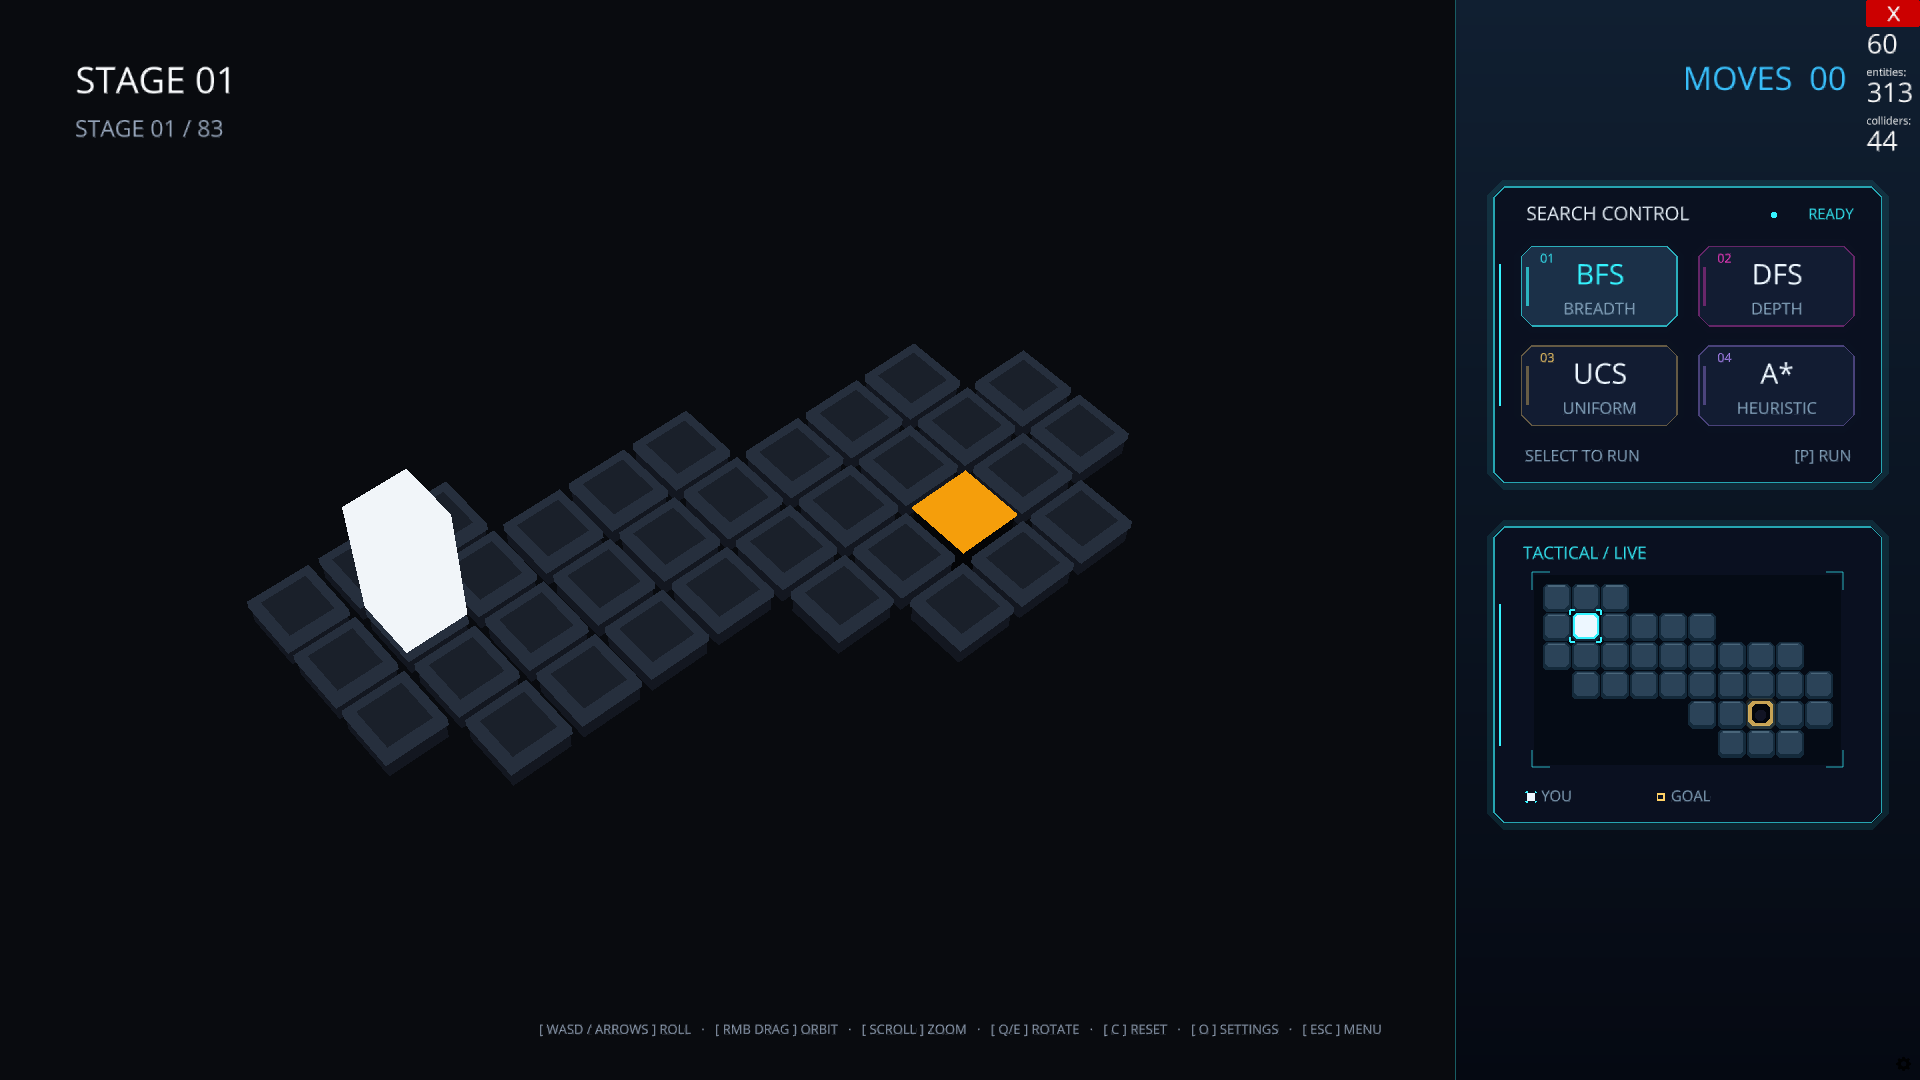
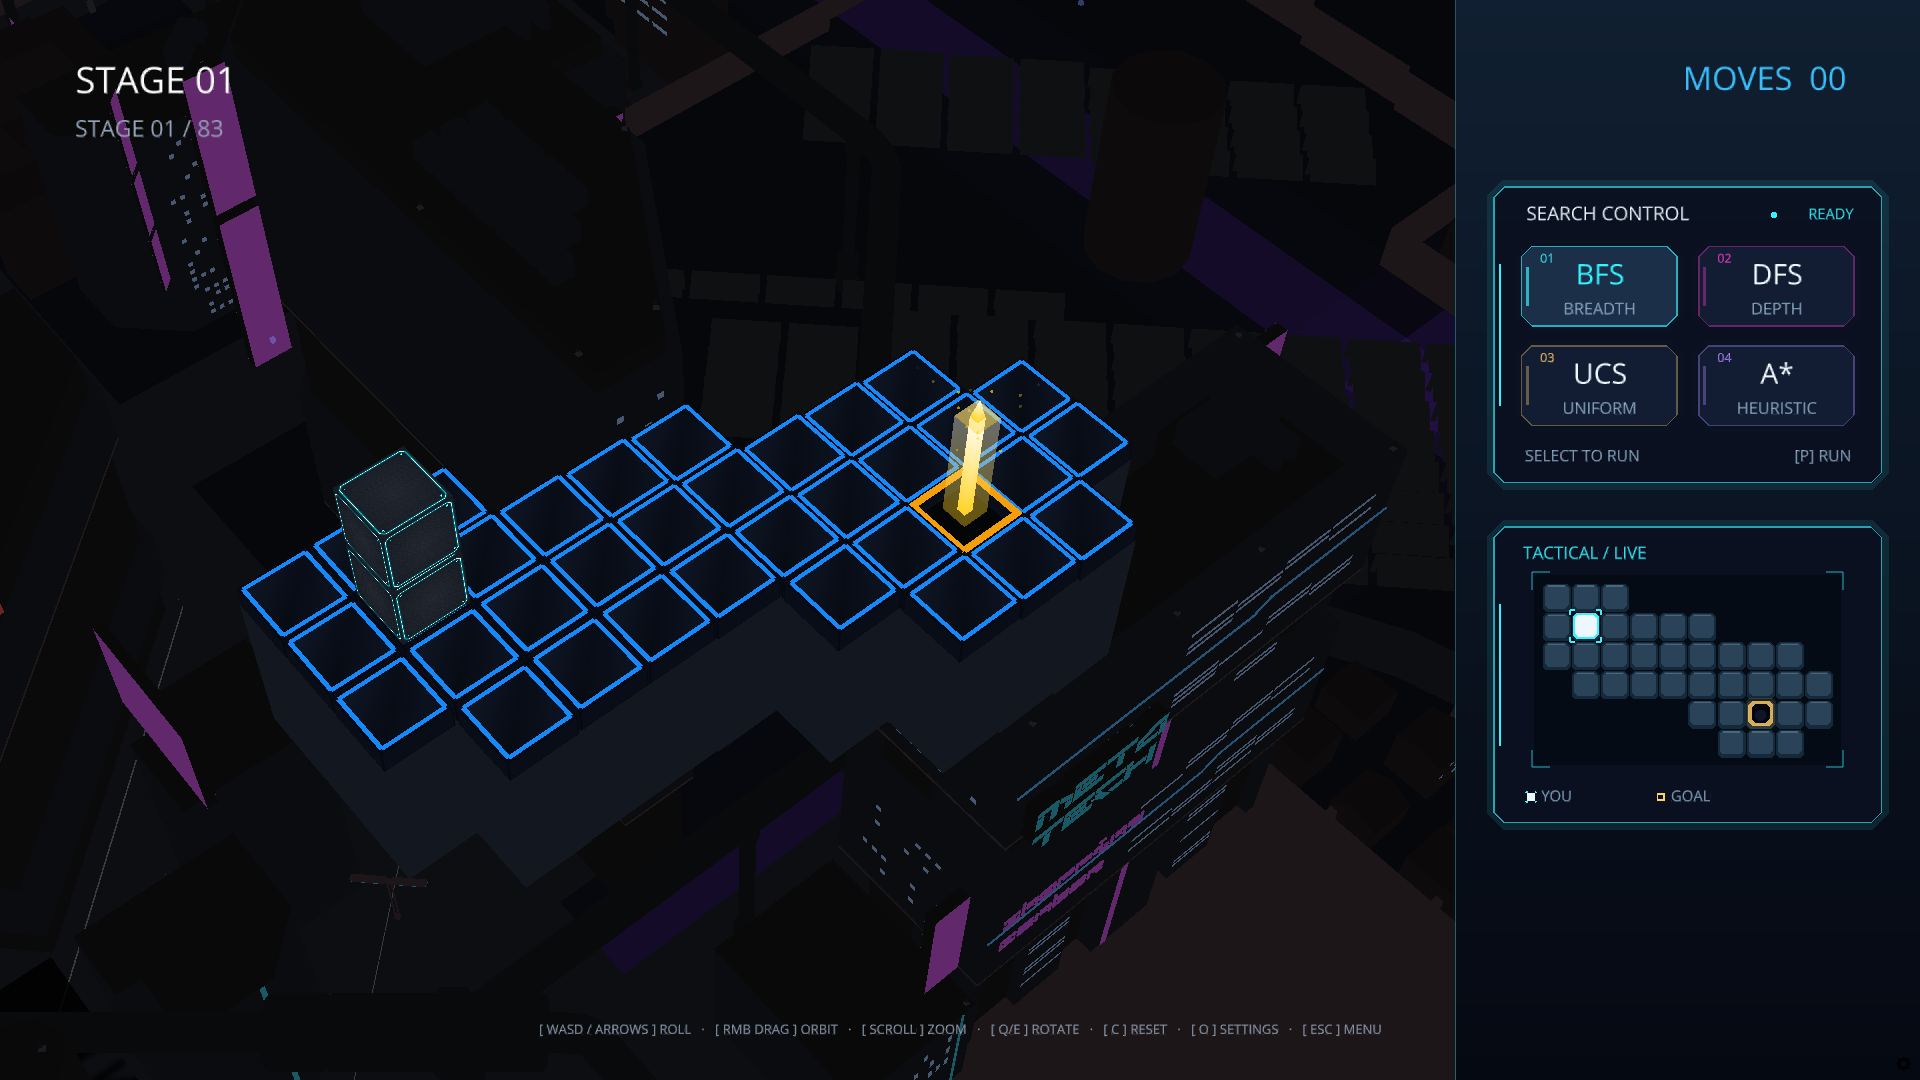
docs(report): update high-resolution figures with new cyberpunk UI/UX and enhance capture script

diff --git a/scripts/capture_report_screenshots.py b/scripts/capture_report_screenshots.py
@@ -20,6 +20,13 @@ CONFIG.window.height = 1080
 CONFIG.window.fullscreen = False
 
 app = Ursina()
+window.fps_counter.enabled = False
+window.exit_button.visible = False
+if hasattr(window, "entity_counter"):
+    window.entity_counter.enabled = False
+if hasattr(window, "collider_counter"):
+    window.collider_counter.enabled = False
+
 from direct.showbase.ShowBaseGlobal import base
 from bloxorz.main import BloxorzApp
 from bloxorz.core.block.split import SplitBlockState, SingleBlock
@@ -35,10 +42,12 @@ def step_frames(count: int = 15):
 
 # --- 1. Stage Select Menu ---
 print("[1/6] Capturing stage select menu...")
+bloxorz._set_gameplay_ui_visible(False)
 bloxorz.menu_mgr.show_stage_select_menu(current_stage=1, page=1)
 step_frames(20)
 base.screenshot(str(images_dir / "menu_stages.png"), defaultFilename=False)
 bloxorz.menu_mgr.close_all()
+bloxorz._set_gameplay_ui_visible(True)
 step_frames(10)
 
 # --- 2. 3D Gameplay & Tactical Minimap (Stage 01) ---
@@ -93,9 +102,17 @@ base.screenshot(str(images_dir / "gameplay_split.png"), defaultFilename=False)
 # --- 6. AI Solver Execution & Automation ---
 print("[6/6] Capturing AI Solver execution...")
 bloxorz.load_stage_by_index(1, animate_camera=False)
+# Execute moves so block is navigating the path
+bloxorz.game.roll(Direction.RIGHT)
+bloxorz.block_view.sync_to_state(bloxorz.game.block)
+bloxorz.game.roll(Direction.RIGHT)
+bloxorz.block_view.sync_to_state(bloxorz.game.block)
+bloxorz.solver_widget.current_algorithm = "A*"
+bloxorz.set_active_solver("A*")
 bloxorz.solver_widget.set_running_state(True)
-bloxorz.solver_widget.status_text.text = "A* SOLVING · OPTIMAL SEARCH"
-bloxorz.hud.update_moves(6)
+bloxorz.solver_widget.status_text.text = "A* EXECUTING · OPTIMAL PATH"
+bloxorz.hud.update_moves(2)
+bloxorz.hud.show_banner("SOLVER: 16 MOVES (OPTIMAL)", duration=None)
 bloxorz._sync_minimap()
 step_frames(25)
 base.screenshot(str(images_dir / "gameplay_solver.png"), defaultFilename=False)
